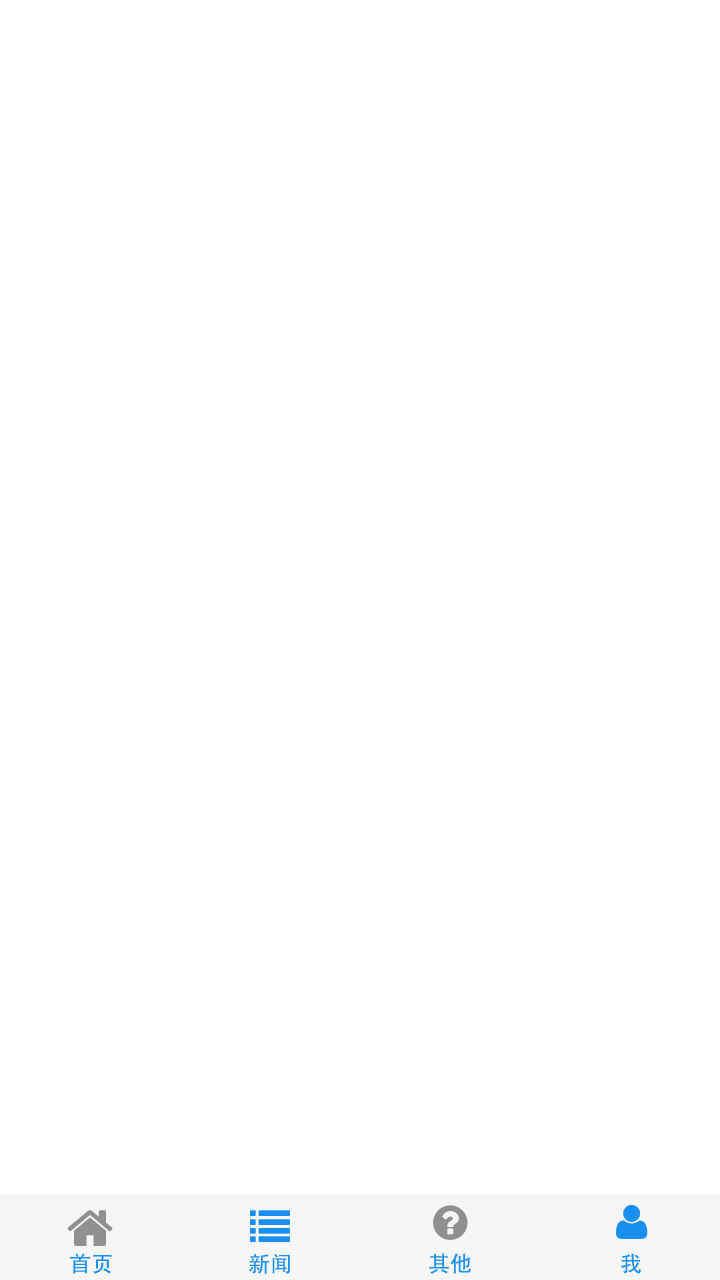
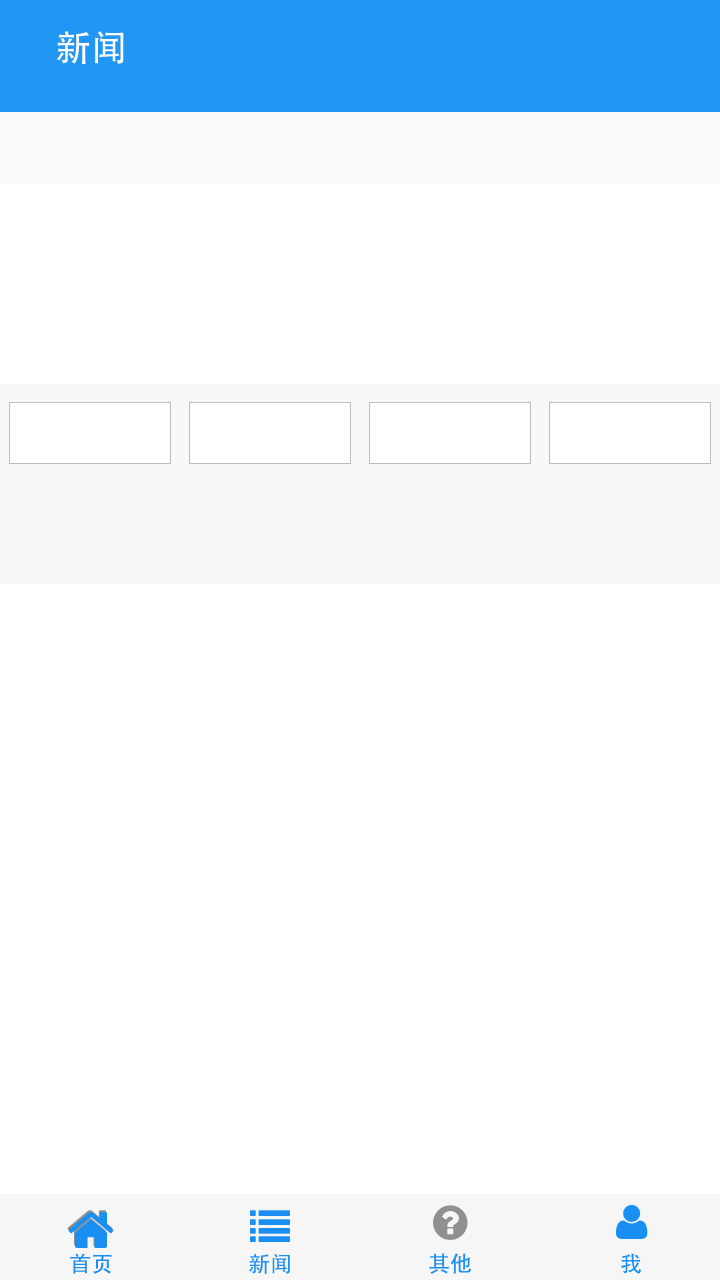
更新DragGrid的UI

Changed region(s): [[0.0, 0.0, 1.0, 0.0938], [0.0917, 0.9375, 0.1528, 1.0]]

diff --git a/app/src/main/java/apollo/view/DragGridView.java b/app/src/main/java/apollo/view/DragGridView.java
@@ -85,11 +85,14 @@ public class DragGridView extends GridView {
 	public DragGridView(Context context, AttributeSet attrs) {
 		super(context, attrs);
 		
-		TypedArray a = context.obtainStyledAttributes(attrs, R.styleable.DragGridView);
+		TypedArray ta = context.obtainStyledAttributes(attrs, R.styleable.DragGridView);
 		
-		this.mDuration = a.getInteger(R.styleable.DragGridView_animationDuration, 750);	
-		this.mDragEnable = a.getBoolean(R.styleable.DragGridView_dragEnable, true);
-		
+		this.mDuration = ta.getInteger(R.styleable.DragGridView_animationDuration, 750);
+		this.mDragEnable = ta.getBoolean(R.styleable.DragGridView_dragEnable, true);
+
+		if (isInEditMode())
+			return ;
+
 		this.mWindowManager = (WindowManager) context.getSystemService(Context.WINDOW_SERVICE);
 		this.mVibrator = (Vibrator) context.getSystemService(Context.VIBRATOR_SERVICE);
 	}

diff --git a/apollo.core/src/main/java/apollo/widget/BaseFragmentPagerAdapter.java b/apollo.core/src/main/java/apollo/widget/BaseFragmentPagerAdapter.java
@@ -42,7 +42,6 @@ public abstract class BaseFragmentPagerAdapter<T> extends FragmentStatePagerAdap
     private EntityBaseFragment getFragmentFromCache(Entity e) {
         EntityBaseFragment f = null;
 
-
         f = this.mFragments.get(e.getId());
         if (f == null) {
             String name = null;
@@ -92,7 +91,6 @@ public abstract class BaseFragmentPagerAdapter<T> extends FragmentStatePagerAdap
             this.mEntities.addAll(entities);
             this.notifyDataSetChanged();
         }
-
 
         Iterator<Entity> itor = null;
         Entity e = null;

diff --git a/app/src/main/java/apollo/view/DragAdapter.java b/app/src/main/java/apollo/view/DragAdapter.java
@@ -66,7 +66,7 @@ public class DragAdapter extends BaseAdapter {
 		section = (Section) this.getItem(position);
 		holder.sectionName.setText(section.getName());
 		holder.sectionName.setTag(section);
-		
+
 		convertView.setVisibility(View.VISIBLE);
 		
 		if (position == (this.getCount() - 1)) {
